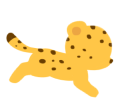
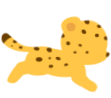
fix: 모달창 애니메이션, todaytabbar 수정

diff --git a/src/routes/today/TodayPage.jsx b/src/routes/today/TodayPage.jsx
@@ -34,7 +34,7 @@ import {
 } from "../calendar-detail/.";
 import { ModalOverlay } from "../../components/modal/styled";
 import { GoalDetialModalLight } from "../calendar-detail/goal-detail/styled";
-import { AnimationDiv } from "./styled";
+import { AnimationDiv, TodayCheetahAnimation } from "./styled";
 
 const TodayPage = () => {
   const [clickMenu, setClickMenu] = useState(false);
@@ -340,21 +340,21 @@ const TodayPage = () => {
           text="TODAY"
         ></HeaderMenu>
         <div className="flex flex-col items-center gap-[20px] pt-5">
-          <img
-            src={
-              speedratio > 1
-                ? cheetah_speed4
-                : speedratio > 0.75
-                ? cheetah_speed3
-                : speedratio > 0.3
-                ? cheetah_speed2
-                : speedratio > 0
-                ? cheetah_speed1
-                : cheetah_speed0
-            }
-            className="w-[200px]"
-            alt="face"
-          />
+            <img
+              src={
+                speedratio > 1
+                  ? cheetah_speed4
+                  : speedratio > 0.75
+                  ? cheetah_speed3
+                  : speedratio > 0.3
+                  ? cheetah_speed2
+                  : speedratio > 0
+                  ? cheetah_speed1
+                  : cheetah_speed0
+              }
+              className="w-[200px]"
+              alt="face"
+            />
           <div
             id="cheetah_dashboard"
             className="flex flex-col justify-start items-center flex-grow-0 flex-shrink-0 w-[319px] relative gap-6 px-[30px] py-5 rounded-[20px] bg-[#faf9f9] m-auto"
@@ -375,13 +375,10 @@ const TodayPage = () => {
           </div>
         </div>
       </div>
-{/* 
-      padding: 10px 15px;
-  align-items: flex-start;
-  height: auto;
-  border-radius: 25px 25px 0px 0px; */}
-
-      <div id="today_goals" className="m-auto mt-[20px] z-50 sticky bg-white px-[10px] py-[15px] rounded-t-[25px] border-t-[3px] border-[#f5f5f5]">
+      <div
+        id="today_goals"
+        className="m-auto mt-[20px] z-30 sticky bg-white px-[10px] py-[15px] rounded-t-[25px] border-t-[3px] border-[#f5f5f5]"
+      >
         <div className="flex flex-row px-[10px] mt-[20px] justify-between items-start ">
           <div>
             <TextHeavy>To Do List</TextHeavy>
@@ -487,7 +484,7 @@ const TodayPage = () => {
         <></>
       )}
       ;
-      <TodayTabBar className="z-50" />
+      <TodayTabBar className="sticky z-50" />
     </div>
   );
 };

diff --git a/src/routes/today/styled.jsx b/src/routes/today/styled.jsx
@@ -99,7 +99,7 @@ export const HamburgerContainer = styled.div`
   background: #fff;
   box-shadow: -2px 0px 4px 0 rgba(0, 0, 0, 0.1);
   // margin-left: 139px;
-  animation: ${slideLeft} 0.3s linear 1;
+  animation: ${slideLeft} 0.2s linear 1;
 `;
 
 export const MyContainer = styled.div`
@@ -444,17 +444,19 @@ export const CompleteButton = () => {
     </CompleteButtonContainer>
   );
 };
+
 export const rotate = keyframes`
   0%{
-      transform: rotate(-10deg);
+      transform: rotate(-20deg);
   }
   50%{ 
-    transform: rotate(0deg);
+    transform: rotate(-8deg);
   }
   100%{
-      transform: rotate(10deg);
+      transform: rotate(0deg);
   }
   `;
+
 export const AnimationDiv = styled.div`
   width: 45px;
   hegiht: 45px;
@@ -479,4 +481,34 @@ export const AnimationDiv = styled.div`
       : props.speed - props.max_speed > 3
       ? 1
       : 2}s;
+`;
+
+export const cheetahRun = keyframes`
+  0%{
+      transform: rotate(-6deg);
+  }
+  50%{ 
+    transform: rotate(0deg);
+  }
+  100%{
+      transform: rotate(5deg);
+  }
+  `;
+
+export const TodayCheetahAnimation = styled.div`
+  width: 200px;
+  display: flex;
+  justify-content: center;
+  align-items: center;
+  animation: ${cheetahRun} linear infinite alternate;
+  animation-duration: ${(props) =>
+    props.speedratio > 1
+      ? 0.45
+      : props.speedratio > 0.75
+      ? 0.7
+      : props.speedratio > 0.3
+      ? 0.9
+      : props.speedratio > 0
+      ? 1.2
+      : 0}s;
 `;

diff --git a/src/routes/calendar-detail/goal-detail/styled.jsx b/src/routes/calendar-detail/goal-detail/styled.jsx
@@ -6,7 +6,7 @@ import { TextBtnSmall } from "../../../components/button/styled";
 import { React, useState, useEffect } from "react";
 import { createTodo, getTodo } from "../../../apis/api_calendar";
 import GoalDetailModalHeader from "../../goal/goaldetailmodal/GoalDetailModalHeader";
-import { slideUp } from "../../../components/modal/styled";
+import { brighten, slideUp } from "../../../components/modal/styled";
 
 export const GoalDetialModalLight = ({ goal, onCloseGoalDetailModal }) => {
   const [todos, setTodos] = useState([]);
@@ -135,7 +135,7 @@ export const ModalLayout = styled.div`
   border-radius: 15px;
   background: #fff;
   box-shadow: 0px 3px 30px 0px rgba(0, 0, 0, 0.16);
-  animation: ${slideUp} 0.5s ease-out 1;
+  animation: ${brighten} 0.1s ease-out 1;
 `;
 
 export const ElementsLayout = styled.div`

diff --git a/src/routes/calendar-detail/styled.jsx b/src/routes/calendar-detail/styled.jsx
@@ -236,8 +236,9 @@ export const TaskCompleteModalContainer = styled.div`
   background: var(--white);
   display: flex;
   width: 357px;
-  height: 506px;
-  padding: 15px 15px 5px 15px;
+  height: 510px;
+  // padding: 15px 15px 5px 15px;
+  padding: 10px 15px;
   align-items: flex-start;
   gap: 10px;
   border-radius: 15px;
@@ -316,7 +317,7 @@ export const CompleteButtonContainer = styled(LargeButtonActiveContainer)`
 export const CompleteButton = (props) => {
   return (
     <CompleteButtonContainer>
-      <LargeLabel onClick={props.onClick}>완료하기</LargeLabel>
+      <LargeLabel className="text-white"onClick={props.onClick}>완료하기</LargeLabel>
     </CompleteButtonContainer>
   );
 };

diff --git a/src/routes/calendar/styled.jsx b/src/routes/calendar/styled.jsx
@@ -274,8 +274,11 @@ export const onOffCircle = styled.div`
   align-items: center;
   width: 34px;
   height: 26px;
+  left: 2px;
+  transform: ${(props) => (props.$isOff ? "" : "translateX(41px)")};
+  transition: all 0.2s linear;
   position: absolute;
-  left: ${(props) => (props.$isOff ? "2px" : "43px")};
+  // left: ${(props) => (props.$isOff ? "2px" : "43px")};
   top: 2px;
   overflow: hidden;
   gap: 10px;

diff --git a/src/routes/calendar/goal-create/styled.jsx b/src/routes/calendar/goal-create/styled.jsx
@@ -489,7 +489,7 @@ export const GoalCreateModalContainer = styled.div`
   background: var(--white);
   box-shadow: 0px 3px 30px 0px rgba(0, 0, 0, 0.16);
   bottom: 0;
-  animation: ${slideUp} .5s ease-out 1;
+  animation: ${slideUp} .3s ease-out 1;
 `;
 
 export const GoalCreateModalElementContainer = styled.div`

diff --git a/src/components/input/styled.jsx b/src/components/input/styled.jsx
@@ -527,7 +527,7 @@ export const TodoContainer = styled.div`
   align-self: stretch;
   flex-grow: 0;
   flex-shrink: 0;
-  width: 307px;
+  width: 317px;
   height: 38px;
   padding: 0px 5px;
   border-radius: 8px;

diff --git a/src/components/tabBar/style.jsx b/src/components/tabBar/style.jsx
@@ -14,6 +14,7 @@ export const tabBarContainer = styled.div`
   position: fixed;
   background: #fff;
   box-shadow: 0px -0.5px 0px 0 rgba(0, 0, 0, 0.2);
+  z-index: 50;
 `;
 
 export const tabs = styled.div`

diff --git a/src/routes/goal/Tag/styled.jsx b/src/routes/goal/Tag/styled.jsx
@@ -13,6 +13,6 @@ export const TagModalContainer = styled.div`
   bottom: 0;
   left: 0;
   margin: auto;
-  animation: ${slideUp} .5s ease-out 1;
+  animation: ${slideUp}.3s ease-out 1;
 `;
 
